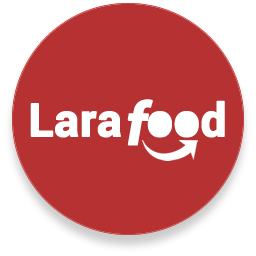
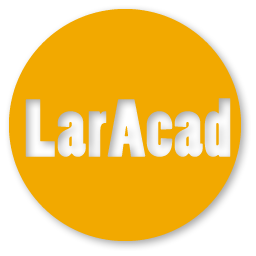
AJUSTES

diff --git a/config/adminlte.php b/config/adminlte.php
@@ -14,7 +14,7 @@ return [
     |
     */
 
-    'title' => 'LaraFood',
+    'title' => 'LarAcad',
     'title_prefix' => '',
     'title_postfix' => '',
 

diff --git a/README.md b/README.md
@@ -1,8 +1,8 @@
 <p align="center"><a href="https://laravel.com" target="_blank"><img src="https://raw.githubusercontent.com/laravel/art/master/logo-lockup/5%20SVG/2%20CMYK/1%20Full%20Color/laravel-logolockup-cmyk-red.svg" width="400"></a></p>
 
-## Projeto LaraFood
+## Projeto LarAcad
 
-Projeto clone do iFood feito em Laravel
+Projeto para professores de academia feito em Laravel
 
 
 ## Comandos para inciar o Projeto
